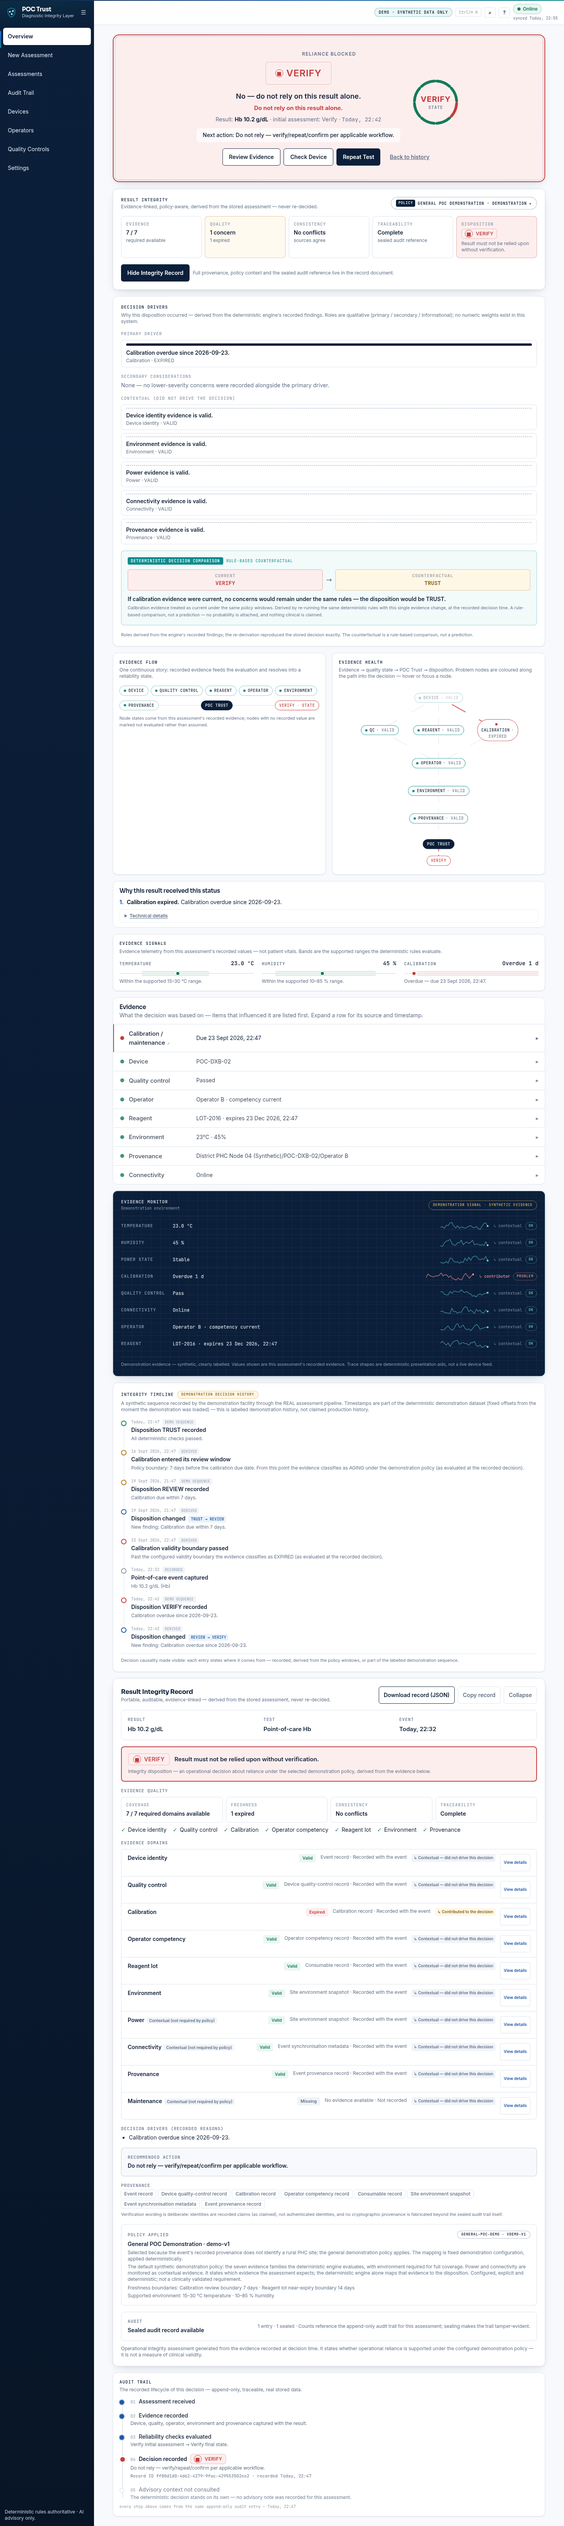
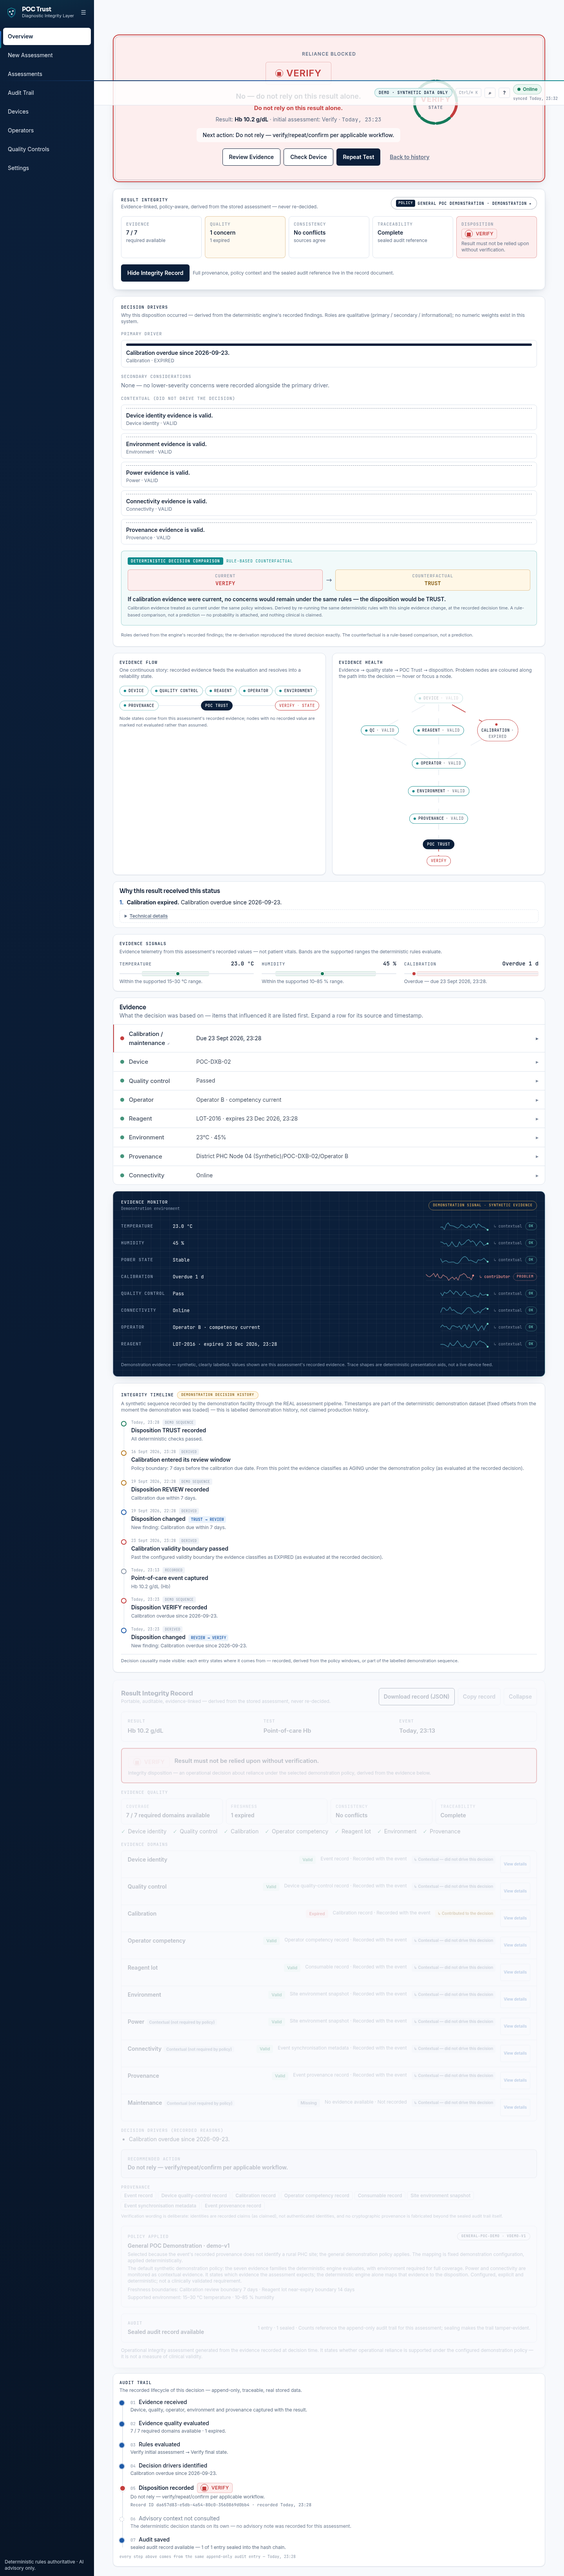
docs: integrity overview release notes, verification record and QA evidence

diff --git a/CHANGELOG.md b/CHANGELOG.md
@@ -1,5 +1,84 @@
 # Changelog
 
+## 1.4.0-integrity-overview — Dashboard Integrity Overview, Enriched Rows, Audit Pipeline, Demonstration Moment (25 September 2026)
+
+The third RIR increment (spec sections 26–39): the integrity story now reaches the whole
+surface — the dashboard, the history list and the audit trail — and the demonstration gains a
+deterministic centrepiece. All metrics are calculated from the stored records at request time;
+nothing is preset. Frozen layers untouched (`ReliabilityEngine`, AI abstraction, orchestrator
+semantics, audit sealing; 131/131 tests green, 0 warnings).
+
+### Added
+
+- **Integrity overview** (dashboard, section 26): four aggregates over the stored assessments —
+  evidence coverage (e.g. "97% complete"), assessments with evidence concerns, detected
+  conflicts, assessments with aging evidence — computed by the backend from the SAME projection
+  the detail records use, with the environment labelled "Demonstration mode — synthetic data
+  only" whenever demonstration records are present. Empty stores render an honest zero state.
+- **Enriched history rows** (section 27): every list row now shows the evidence coverage
+  ("Evidence: 6/7"), the primary driver ("Primary driver: Calibration expired"), the selected
+  policy, an explicit AI indicator ("AI: Contextual Analysis" / "AI: Not consulted") and audit
+  availability ("Audit: Available") — each row understandable before opening it. Row fields are
+  derived by the same projector as the full record (no parallel derivation) and are optional in
+  the payload, so older or unprojectable records simply render a plainer row.
+- **Audit pipeline stages** (section 28): the per-assessment audit lifecycle now follows the
+  full chain — Evidence received → Evidence quality evaluated → Rules evaluated → Decision
+  drivers identified → Disposition recorded → Contextual Analysis consulted (only when it was)
+  → Audit saved — each stage bound to the stored audit row and the derived record. The advisory
+  stage stays visually secondary; it never reads as if the AI created the decision.
+- **Demonstration moment** (section 30): the dashboard now carries the core proof of the
+  integrity engine — "Watch one result become trustworthy, then watch its integrity context
+  change" — rendering the stored three-step sequence TRUST → REVIEW → VERIFY with a
+  "Why did it change?" panel whose lines are derived from the recorded findings (the same
+  derivation the integrity timeline uses, via the projector's public `DescribeTransition`).
+  Fully deterministic; the payload states `aiInvolved` and the card says "No advisory
+  involvement — every change comes from the deterministic rules alone."
+- **Scenario cards updated** (section 29): trust / review / verify / missing / offline cards
+  now describe what the opened record's Result Integrity Record will show — coverage, concerns,
+  conflicts, primary driver, synchronisation-metadata wording for offline — while the record
+  itself remains the proof (numbers are never hardcoded into card copy).
+- **New endpoint** `GET /api/dashboard/demonstration`: the stored demonstration sequence with
+  per-step disposition, policy and derived change line; `available:false` with no invented
+  steps when the sequence is not loaded.
+- **Tests** (section 35): 14 new regression tests (`IntegrityUpgradeTests`) covering: RIR
+  disposition equals the deterministic status for every scenario kind; no fabricated evidence
+  (10 canonical domains, null identifiers for unrecorded evidence, coverage arithmetic); the
+  eight-state taxonomy incl. the honestly-reserved STALE; causality from real rules with a
+  structural no-numeric-driver guarantee and no weight/percent/contribution/confidence keys;
+  policy displayed but never softening a hard VERIFY under either policy; byte-identical
+  reopen consistency (states + provenance wording); RIR independence from AI (advisory outage),
+  REVIEW-only advisory display, VERIFY never consulted, and a rogue advisory unable to move the
+  disposition; dashboard aggregates recomputed independently; row/record consistency; and the
+  demonstration sequence.
+
+### Changed
+
+- Copy guard (section 33/34): bans the raw machine identifiers `EVIDENCE_STATE`, `RIR_ID`,
+  `POLICY_ID`, `RULE_WEIGHT`, `SOURCE_CONFIDENCE` from presentation code, and the unvalidated
+  claims "clinically safe", "diagnostically correct", "clinical risk score" and "patient safety
+  prediction"; requires the new dashboard/row/pipeline wording.
+- Contract checks: 27/27 — the new row-integrity, overview and demonstration parsers are
+  exercised defensively (garbage degrades to honest empty states, never crashes).
+
+### Verification record
+
+- `dotnet build` 0 warnings / 0 errors; `dotnet test` **131/131**.
+- `npm run build` ok; `npm run lint` 0/0 (36 files); `npm run check:contract` 27/27 + copy guard PASS.
+- API E2E (`scripts/live-verify2.sh`): overview aggregates recomputed independently from
+  per-record RIRs and matching; all 13 row-integrity blocks agree with their full records;
+  demonstration sequence TRUST → REVIEW → VERIFY with derived change lines and no advisory
+  involvement; per-scenario RIRs (trust/review/verify/missing/offline) correct; reopening a
+  record reproduces a byte-identical RIR.
+- Browser E2E (`scripts/browser-qa3.sh`, 30 checks): integrity overview + demonstration moment
+  render with the environment label; enriched rows; the section-28 audit pipeline on a record
+  page; VERIFY page contains zero "Contextual Analysis" text; policy chip expands the policy
+  panel; zero machine identifiers in the primary UI (regex scan of rendered text); zero
+  horizontal overflow at 390px; reduced-motion handling present; no console errors. Legacy
+  suites (`browser-qa2.sh`, `live-verify.sh`) still pass — seed/reset, audit chain valid,
+  historical reopen, Evidence Monitor, Signal Map, Reliability Arc, Command Palette unchanged.
+- Frozen layers absent from the diff: `ReliabilityEngine.cs`, `AssessmentOrchestrator.cs`,
+  AI providers, `AuditChain.cs`, `EfAuditStore.cs`.
+
 ## 1.3.0-decision-causality — Evidence Conflict, Decision Drivers, Integrity Timeline, Policies (25 September 2026)
 
 The second RIR increment (spec sections 10–25): the record now explains **why** the disposition
